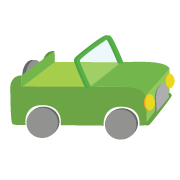
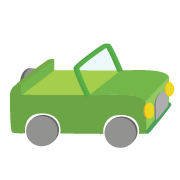
fixing jeep and setting scene change

Changed region(s): [[0.0556, 0.1944, 0.9722, 0.8333], [0.6111, 0.5, 0.6667, 0.5278]]

diff --git a/app/assets/stylesheets/adventure.css.scss b/app/assets/stylesheets/adventure.css.scss
@@ -79,7 +79,7 @@ for the about.css.scss file custom styling*/
 
 #ca-vehicle-jeep {
   position: relative;
-  top: 105px;
+  top: 98px;
 }
 
 .ca-animate-boat {
@@ -110,13 +110,13 @@ for the about.css.scss file custom styling*/
 
 #campaigns-adventure-wheel-left {
   position: relative;
-  top: 60px;
+  top: 61px;
   left: -154px;
 }
 
 #campaigns-adventure-wheel-right {
   position: relative;
-  top: 62px;
+  top: 63px;
   left: -104px;
 }
 
